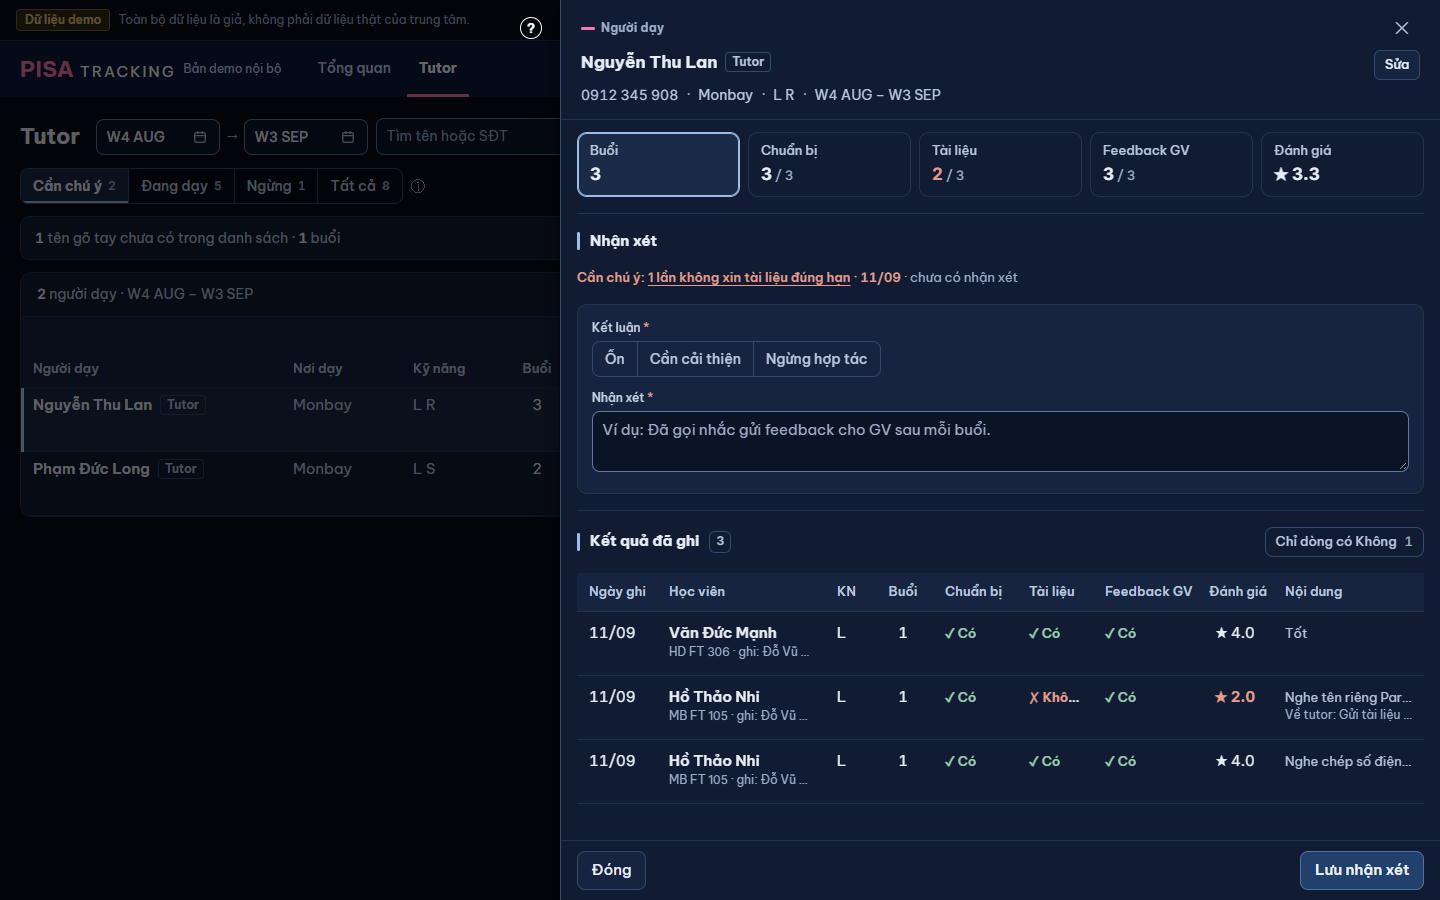
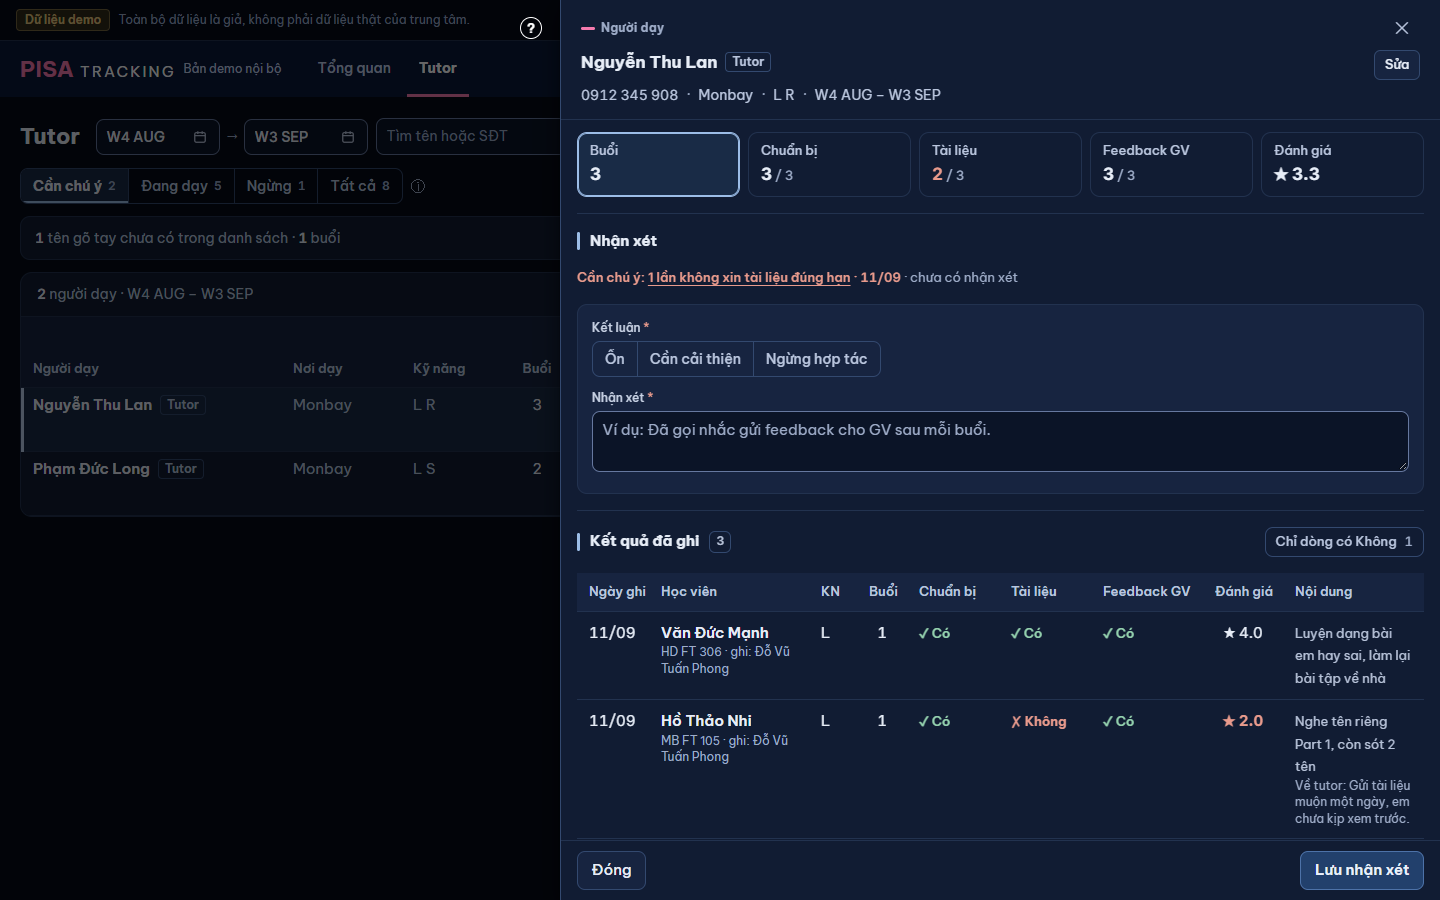
S2 P2-9 (PTA Tutor 20/11): bảng Kết quả đã ghi là bảng đọc — đủ chữ, xuống dòng, hàng cao theo nội dung; cột tiêu chí đủ '✗ Không'; một dòng miễn g3

diff --git a/web/src/modules/tutor/PanelTutor.tsx b/web/src/modules/tutor/PanelTutor.tsx
@@ -123,15 +123,16 @@ export function PanelTutor({ id, tieuChi, xemChuY, khoang, dsChiNhanh, chiNhanhD
     chuanBi: t('Chuẩn bị · Không'), taiLieu: t('Tài liệu · Không'), feedbackGv: t('Feedback GV · Không'), sao: t('Đánh giá ≤ 2'),
   };
   const cot: CotBang[] = [
-    { key: 'ngay', nhan: t('Ngày ghi'), kieu: 'chu', rong: 80 },
-    { key: 'hv', nhan: t('Học viên'), kieu: 'ten', rong: 168 },
+    /* PTA Tutor 20/11: bảng ĐỌC — ba cột tiêu chí đủ "✗ Không" nguyên chữ; bớt Ngày / Buổi / Đánh giá; Nội dung co và xuống dòng. */
+    { key: 'ngay', nhan: t('Ngày ghi'), kieu: 'chu', rong: 72 },
+    { key: 'hv', nhan: t('Học viên'), kieu: 'ten', rong: 160 },
     { key: 'kn', nhan: 'KN', kieu: 'chu', rong: 48 },
-    { key: 'buoi', nhan: t('Buổi'), kieu: 'so', rong: 60 },
-    ...TIEU_CHI.map((c): CotBang => ({ key: c.k, nhan: c.nhan, kieu: 'chu', rong: c.k === 'feedbackGv' ? 104 : c.k === 'chuanBi' ? 84 : 76 })),
-    { key: 'sao', nhan: t('Đánh giá'), kieu: 'so', rong: 76 },
+    { key: 'buoi', nhan: t('Buổi'), kieu: 'so', rong: 50 },
+    ...TIEU_CHI.map((c): CotBang => ({ key: c.k, nhan: c.nhan, kieu: 'chu', rong: c.k === 'feedbackGv' ? 112 : 92 })),
+    { key: 'sao', nhan: t('Đánh giá'), kieu: 'so', rong: 80 },   // tiêu đề "Đánh giá" cần 56 px chữ — 76 làm tiêu đề tràn lệch tâm 3 px (do-bang g1)
     { key: 'nd', nhan: t('Nội dung'), kieu: 'chu', linhHoat: true },
   ];
-  /* P2-9: dòng phụ qua `phuCua` của `Bang` (lớp · người ghi; về tutor) — `Bang` biết hàng có dòng phụ nên cao đều 64. */
+  /* Dòng phụ qua `phuCua` của `Bang` (lớp · người ghi; về tutor) — đủ chữ, xuống dòng (`.bang-doc`, index.css). */
   const phuKq = (b: BuoiDay, c: CotBang): ReactNode => (c.key === 'hv' ? [b.lop, b.nguoiGhi ? t('ghi: {ten}', { ten: b.nguoiGhi }) : null].filter(Boolean).join(' · ')
     : c.key === 'nd' && b.nhanXetTutor ? `${t('Về tutor')}: ${b.nhanXetTutor}` : null);
   const oKq = (b: BuoiDay, c: CotBang): ReactNode => {
@@ -141,8 +142,7 @@ export function PanelTutor({ id, tieuChi, xemChuY, khoang, dsChiNhanh, chiNhanhD
       case 'kn': return b.kn || '—';
       case 'buoi': return <span className="tabular-nums">{b.soBuoi}</span>;
       case 'sao': return sao(b.danhGia);
-      /* P2-9: một dòng chính (đủ chữ ở title) + "Về tutor" là dòng phụ của `Bang` → mọi hàng cao 64 như chuẩn bảng. */
-      case 'nd': return <span className="block truncate text-[13px] text-slate-300 max-sm:whitespace-normal" title={b.nhanXet}>{b.nhanXet}</span>;
+      case 'nd': return <span className="text-[13px] text-slate-300">{b.nhanXet}</span>;
       default: return dau(b[c.key as TieuChi]);
     }
   };
@@ -243,8 +243,9 @@ export function PanelTutor({ id, tieuChi, xemChuY, khoang, dsChiNhanh, chiNhanhD
                 <button type="button" className="btn btn-sm min-h-[44px] shrink-0 sm:min-h-0" onClick={() => { setCy(false); setLoc('tat-ca'); }}>{t('Về {khoang}', { khoang: khoangChu })}</button>
               </div>
             )}
-            <Bang<BuoiDay> ten={t('Kết quả đã ghi')} khung={false} cot={cot} hang={kq} khoa={(b) => b.id} oCua={oKq} phuCua={phuKq}
-              rong={{ tieuDe: tatCa.length ? t('Không có lần ghi khớp bộ lọc.') : t('Chưa có kết quả nào trong khoảng này.') }} />
+            {/* PTA Tutor 20/11: bảng Head tutor ĐỌC để đánh giá — không theo chuẩn hàng 44 / 64: đủ chữ ngay, hàng cao theo nội dung (`.bang-doc`). */}
+            <div className="bang-doc"><Bang<BuoiDay> ten={t('Kết quả đã ghi')} khung={false} cot={cot} hang={kq} khoa={(b) => b.id} oCua={oKq} phuCua={phuKq}
+              rong={{ tieuDe: tatCa.length ? t('Không có lần ghi khớp bộ lọc.') : t('Chưa có kết quả nào trong khoảng này.') }} /></div>
           </div>
         )}
       <ConfirmDialog open={!!xoa} onClose={() => setXoa(null)} onConfirm={() => xoa && xoaNx(xoa)} busy={gui} danger z="z-[60]"

diff --git a/web/src/index.css b/web/src/index.css
@@ -847,6 +847,10 @@
     .pn-bang .bang > tbody > tr > td { padding-top: 0.45rem; padding-bottom: 0.45rem; }
   }
   .bang td[data-kieu="chip"] { white-space: nowrap; }
+  /* S2 (PTA Tutor 20/11): BẢNG ĐỌC (`.bang-doc` — "Kết quả đã ghi" panel Tutor): KHÔNG theo chuẩn hàng 44 / 64 — chữ đủ, xuống dòng tự nhiên,
+     hàng cao theo nội dung, căn trên. Cột ngắn (dấu ✓ / ✗, số) giữ một dòng. Miễn do-khung g3 ở `scripts/mien-do.json`. */
+  .bang-doc .bang > tbody > tr > td { height: auto !important; vertical-align: top; }
+  .bang-doc .bang td:is([data-kieu="ten"], [data-linh]), .bang-doc .bang td .bang-phu { white-space: normal; overflow: visible; text-overflow: clip; overflow-wrap: break-word; }
   /* HTT-3: hàng bấm được nhận focus phím — vòng 2 px quanh cả hàng (vẽ trong ô, không bị khung cuộn cắt). */
   .bang > tbody > tr.bam:focus-visible { outline: none; }
   .bang > tbody > tr.bam:focus-visible > td { box-shadow: inset 0 2px 0 var(--accent), inset 0 -2px 0 var(--accent); }
